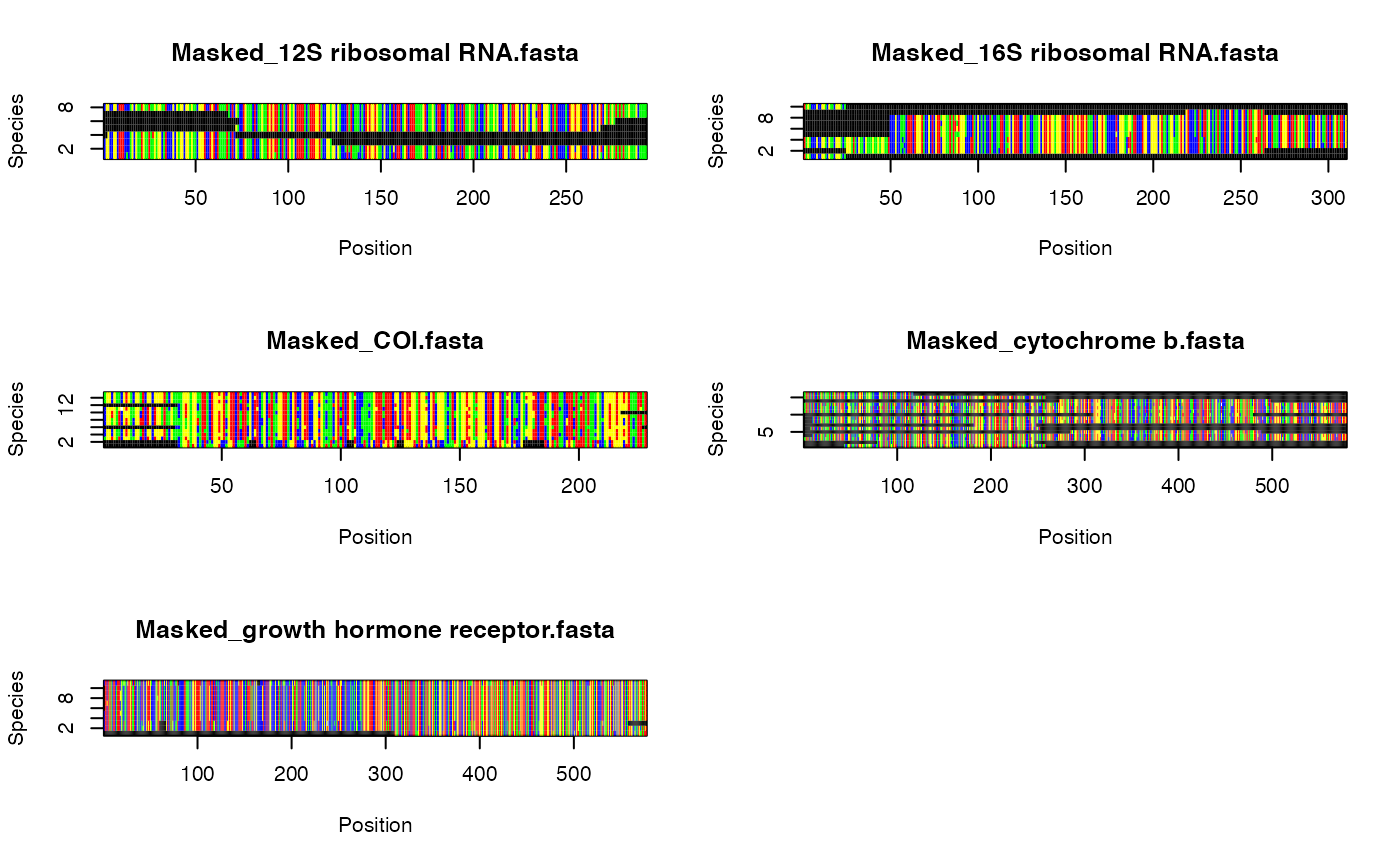
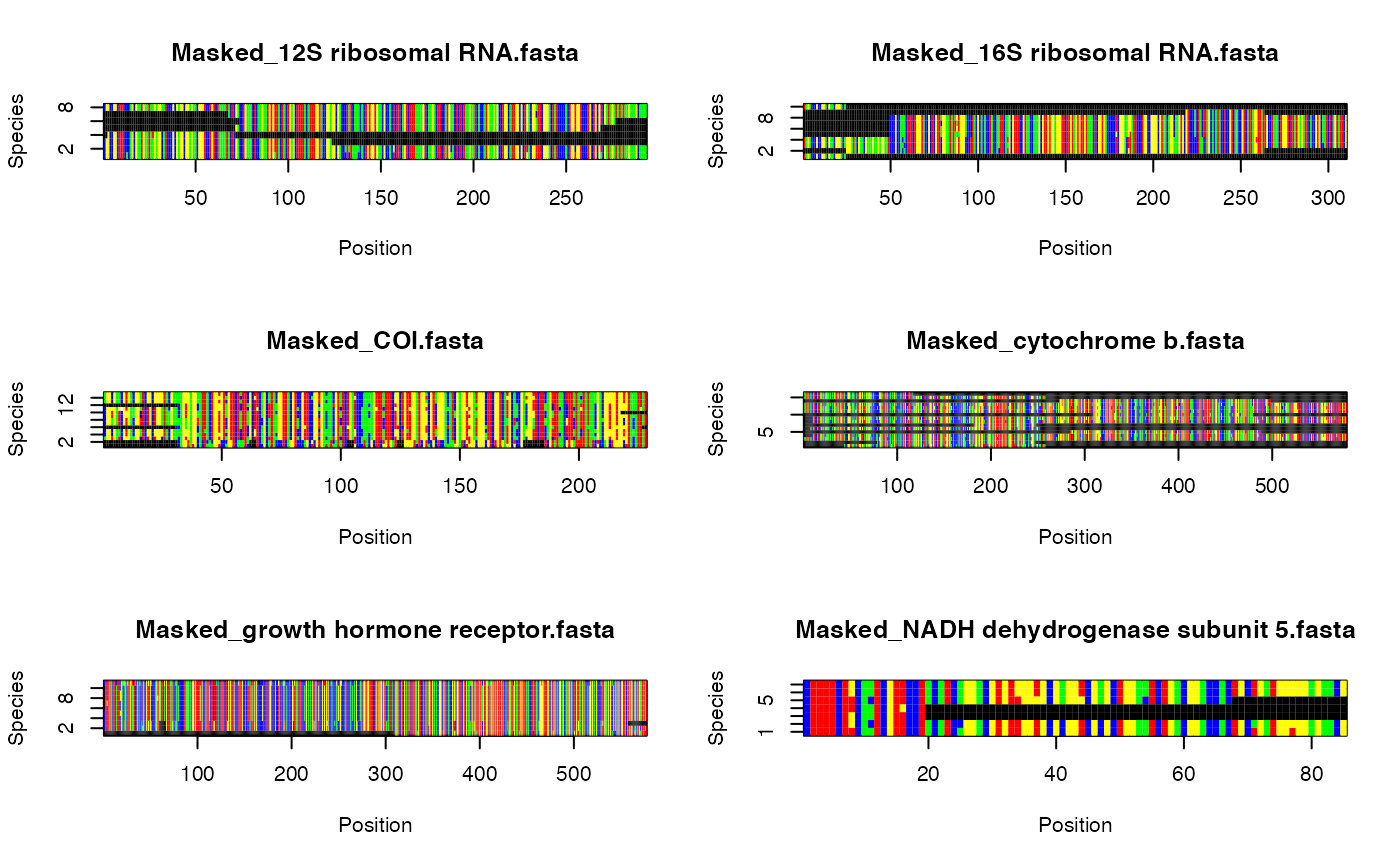
Built site for phruta: 0.1.1@0e33640

diff --git a/articles/Brief_Intro_phruta.html b/articles/Brief_Intro_phruta.html
@@ -94,7 +94,7 @@
       <h1 data-toc-skip>Introduction to the <code>phruta</code> R package</h1>
                         <h4 data-toc-skip class="author">Cristian Román-Palacios</h4>
             
-            <h4 data-toc-skip class="date">First created on 2021-07-30. Updated on 2022-05-30</h4>
+            <h4 data-toc-skip class="date">First created on 2021-07-30. Updated on 2022-05-31</h4>
       
       <small class="dont-index">Source: <a href="https://github.com/cromanpa94/phruta/blob/HEAD/vignettes/Brief_Intro_phruta.Rmd" class="external-link"><code>vignettes/Brief_Intro_phruta.Rmd</code></a></small>
       <div class="hidden name"><code>Brief_Intro_phruta.Rmd</code></div>
@@ -154,7 +154,7 @@
 <div class="sourceCode" id="cb4"><pre class="downlit sourceCode r">
 <code class="sourceCode R"><span class="va">gs.seqs</span> <span class="op">&lt;-</span> <span class="fu"><a href="../reference/gene.sampling.retrieve.html">gene.sampling.retrieve</a></span><span class="op">(</span>organism <span class="op">=</span> <span class="fu"><a href="https://rdrr.io/r/base/c.html" class="external-link">c</a></span><span class="op">(</span><span class="st">"Felis"</span>, <span class="st">"Vulpes"</span>, <span class="st">"Phoca"</span>, <span class="st">"Manis_pentadactyla"</span><span class="op">)</span>, 
                                   speciesSampling <span class="op">=</span> <span class="cn">TRUE</span><span class="op">)</span></code></pre></div>
-<p>For the search terms, <code>phruta</code> was able to retrieve the names for 1311 gene regions.</p>
+<p>For the search terms, <code>phruta</code> was able to retrieve the names for 1327 gene regions.</p>
 <table class="table">
 <caption>Gene sampling for the search including the genera Felis, Vulpes, Phoca as the ingroup taxa. Manis pentadactyla was used as outgroup.</caption>
 <thead><tr class="header">
@@ -165,33 +165,33 @@
 <tbody>
 <tr class="odd">
 <td align="left">cytochrome b</td>
-<td align="right">23</td>
-<td align="right">74.19355</td>
+<td align="right">24</td>
+<td align="right">75.000</td>
 </tr>
 <tr class="even">
 <td align="left">NADH dehydrogenase subunit 5</td>
 <td align="right">13</td>
-<td align="right">41.93548</td>
+<td align="right">40.625</td>
 </tr>
 <tr class="odd">
 <td align="left">12S ribosomal RNA</td>
 <td align="right">11</td>
-<td align="right">35.48387</td>
+<td align="right">34.375</td>
 </tr>
 <tr class="even">
 <td align="left">16S ribosomal RNA</td>
 <td align="right">11</td>
-<td align="right">35.48387</td>
+<td align="right">34.375</td>
 </tr>
 <tr class="odd">
 <td align="left">cytochrome c oxidase subunit I</td>
 <td align="right">11</td>
-<td align="right">35.48387</td>
+<td align="right">34.375</td>
 </tr>
 <tr class="even">
 <td align="left">growth hormone receptor</td>
 <td align="right">11</td>
-<td align="right">35.48387</td>
+<td align="right">34.375</td>
 </tr>
 </tbody>
 </table>
@@ -367,15 +367,39 @@
 <td align="left">cytochrome b</td>
 </tr>
 <tr class="odd">
-<td align="left">Felis catus</td>
-<td align="left">Felis catus voucher M29 NADH dehydrogenase subunit 5 (ND5) gene, partial cds; NADH dehydrogenase subunit 6 (ND6) gene, complete cds; tRNA-Glx gene, complete sequence; and cytochrome b (CytB) gene, partial cds; mitochondrial</td>
-<td align="left">KP279580</td>
+<td align="left">Felis silvestris</td>
+<td align="left">Felis silvestris silvestris isolate CAT155 NADH dehydrogenase subunit 5 (ND5) and NADH dehydrogenase subunit 6 (ND6) genes, partial cds; tRNA-Glu (trnE(ttc)) gene, partial sequence; and cytochrome b (cytb) gene, partial cds; mitochondrial</td>
+<td align="left">MN537981</td>
 <td align="left">NADH dehydrogenase subunit 5</td>
 </tr>
 <tr class="even">
-<td align="left">Felis silvestris</td>
-<td align="left">Felis silvestris isolate W93 NADH dehydrogenase subunit 5 (ND5) gene, partial cds; mitochondrial</td>
-<td align="left">KP699691</td>
+<td align="left">Felis catus</td>
+<td align="left">Felis catus isolate 4709-K NADH dehydrogenase subunit 5 (ND5) gene, partial cds; NADH dehydrogenase subunit 6 (ND6) gene, complete cds; tRNA-Glu gene, complete sequence; and cytochrome b (CYTB) gene, partial cds; mitochondrial</td>
+<td align="left">MN313781</td>
+<td align="left">NADH dehydrogenase subunit 5</td>
+</tr>
+<tr class="odd">
+<td align="left">Felis margarita</td>
+<td align="left">Felis margarita haplotype AH NADH dehydrogenase subunit 5 (ND5) and cytochrome b (cytb) genes, partial cds; and tRNA-Thr gene and D-loop, partial sequence; mitochondrial</td>
+<td align="left">MK606132</td>
+<td align="left">NADH dehydrogenase subunit 5</td>
+</tr>
+<tr class="even">
+<td align="left">Felis chaus</td>
+<td align="left">Felis chaus isolate JCAIZ003 NADH dehydrogenase subunit 5 (ND5) gene, partial cds; mitochondrial</td>
+<td align="left">GU561700</td>
+<td align="left">NADH dehydrogenase subunit 5</td>
+</tr>
+<tr class="odd">
+<td align="left">Felis nigripes</td>
+<td align="left">Felis nigripes NADH dehydrogenase subunit 5 gene, partial cds; mitochondrial</td>
+<td align="left">AF006400</td>
+<td align="left">NADH dehydrogenase subunit 5</td>
+</tr>
+<tr class="even">
+<td align="left">Felis libyca</td>
+<td align="left">Felis libyca NADH dehydrogenase subunit 5 gene, partial cds; mitochondrial</td>
+<td align="left">AF006396</td>
 <td align="left">NADH dehydrogenase subunit 5</td>
 </tr>
 <tr class="odd">
@@ -903,15 +927,39 @@
 <td align="left">cytochrome b</td>
 </tr>
 <tr class="odd">
-<td align="left">Felis catus</td>
-<td align="left">Felis catus voucher M29 NADH dehydrogenase subunit 5 (ND5) gene, partial cds; NADH dehydrogenase subunit 6 (ND6) gene, complete cds; tRNA-Glx gene, complete sequence; and cytochrome b (CytB) gene, partial cds; mitochondrial</td>
-<td align="left">KP279580</td>
+<td align="left">Felis silvestris</td>
+<td align="left">Felis silvestris silvestris isolate CAT155 NADH dehydrogenase subunit 5 (ND5) and NADH dehydrogenase subunit 6 (ND6) genes, partial cds; tRNA-Glu (trnE(ttc)) gene, partial sequence; and cytochrome b (cytb) gene, partial cds; mitochondrial</td>
+<td align="left">MN537981</td>
 <td align="left">NADH dehydrogenase subunit 5</td>
 </tr>
 <tr class="even">
-<td align="left">Felis silvestris</td>
-<td align="left">Felis silvestris isolate W93 NADH dehydrogenase subunit 5 (ND5) gene, partial cds; mitochondrial</td>
-<td align="left">KP699691</td>
+<td align="left">Felis catus</td>
+<td align="left">Felis catus isolate 4709-K NADH dehydrogenase subunit 5 (ND5) gene, partial cds; NADH dehydrogenase subunit 6 (ND6) gene, complete cds; tRNA-Glu gene, complete sequence; and cytochrome b (CYTB) gene, partial cds; mitochondrial</td>
+<td align="left">MN313781</td>
+<td align="left">NADH dehydrogenase subunit 5</td>
+</tr>
+<tr class="odd">
+<td align="left">Felis margarita</td>
+<td align="left">Felis margarita haplotype AH NADH dehydrogenase subunit 5 (ND5) and cytochrome b (cytb) genes, partial cds; and tRNA-Thr gene and D-loop, partial sequence; mitochondrial</td>
+<td align="left">MK606132</td>
+<td align="left">NADH dehydrogenase subunit 5</td>
+</tr>
+<tr class="even">
+<td align="left">Felis chaus</td>
+<td align="left">Felis chaus isolate JCAIZ003 NADH dehydrogenase subunit 5 (ND5) gene, partial cds; mitochondrial</td>
+<td align="left">GU561700</td>
+<td align="left">NADH dehydrogenase subunit 5</td>
+</tr>
+<tr class="odd">
+<td align="left">Felis nigripes</td>
+<td align="left">Felis nigripes NADH dehydrogenase subunit 5 gene, partial cds; mitochondrial</td>
+<td align="left">AF006400</td>
+<td align="left">NADH dehydrogenase subunit 5</td>
+</tr>
+<tr class="even">
+<td align="left">Felis libyca</td>
+<td align="left">Felis libyca NADH dehydrogenase subunit 5 gene, partial cds; mitochondrial</td>
+<td align="left">AF006396</td>
 <td align="left">NADH dehydrogenase subunit 5</td>
 </tr>
 <tr class="odd">
@@ -1736,34 +1784,55 @@
 <td align="left">Manis_pentadactyla</td>
 </tr>
 <tr class="odd">
-<td align="left">KP279580 Felis catus</td>
-<td align="left">KP279580</td>
-<td align="left">Felis_catus</td>
+<td align="left">MN537981 Felis silvestris</td>
+<td align="left">MN537981</td>
+<td align="left">Felis_silvestris</td>
 <td align="left">NADH dehydrogenase subunit 5.fasta</td>
-<td align="left">Felis_catus</td>
+<td align="left">Felis_silvestris</td>
 </tr>
 <tr class="even">
-<td align="left">KP699691 Felis silvestris</td>
-<td align="left">KP699691</td>
-<td align="left">Felis_silvestris</td>
+<td align="left">MN313781 Felis catus</td>
+<td align="left">MN313781</td>
+<td align="left">Felis_catus</td>
 <td align="left">NADH dehydrogenase subunit 5.fasta</td>
-<td align="left">Felis_silvestris</td>
+<td align="left">Felis_catus</td>
 </tr>
 <tr class="odd">
+<td align="left">MK606132 Felis margarita</td>
+<td align="left">MK606132</td>
+<td align="left">Felis_margarita</td>
+<td align="left">NADH dehydrogenase subunit 5.fasta</td>
+<td align="left">Felis_margarita</td>
+</tr>
+<tr class="even">
+<td align="left">GU561700 Felis chaus</td>
+<td align="left">GU561700</td>
+<td align="left">Felis_chaus</td>
+<td align="left">NADH dehydrogenase subunit 5.fasta</td>
+<td align="left">Felis_chaus</td>
+</tr>
+<tr class="odd">
+<td align="left">AF006400 Felis nigripes</td>
+<td align="left">AF006400</td>
+<td align="left">Felis_nigripes</td>
+<td align="left">NADH dehydrogenase subunit 5.fasta</td>
+<td align="left">Felis_nigripes</td>
+</tr>
+<tr class="even">
 <td align="left">AH014073 Vulpes lagopus</td>
 <td align="left">AH014073</td>
 <td align="left">Vulpes_lagopus</td>
 <td align="left">NADH dehydrogenase subunit 5.fasta</td>
 <td align="left">Vulpes_lagopus</td>
 </tr>
-<tr class="even">
+<tr class="odd">
 <td align="left">AY377376 Phoca groenlandica</td>
 <td align="left">AY377376</td>
 <td align="left">Pagophilus_groenlandicus</td>
 <td align="left">NADH dehydrogenase subunit 5.fasta</td>
 <td align="left">Phoca_groenlandica</td>
 </tr>
-<tr class="odd">
+<tr class="even">
 <td align="left">GU167331 Phoca fasciata</td>
 <td align="left">GU167331</td>
 <td align="left">Histriophoca_fasciata</td>
